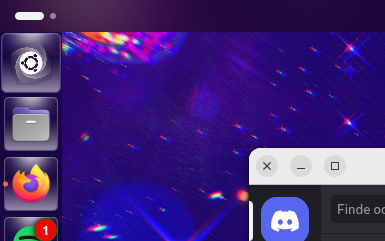
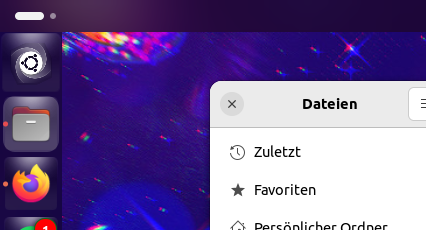
Small changes here and there

diff --git a/unityglass@teamcons.github.com/unity.css b/unityglass@teamcons.github.com/unity.css
@@ -67,7 +67,7 @@ round_glow_hl_62x62
   transition-duration: 100ms;
   background-size: cover;
   text-align: center;
-  padding: 55px;
+  padding: 2px;
   }
   
   
@@ -86,7 +86,9 @@ round_glow_hl_62x62
 /* Le arrows */
 .app-well-app-running-dot { 
     background-image: url("arrows/arrow_right.png");
-    background-size: cover;
+    background-size: 55% 70%;
+    background-color: red;
+    color: green;
     /*color: transparent;*/
 }
 
